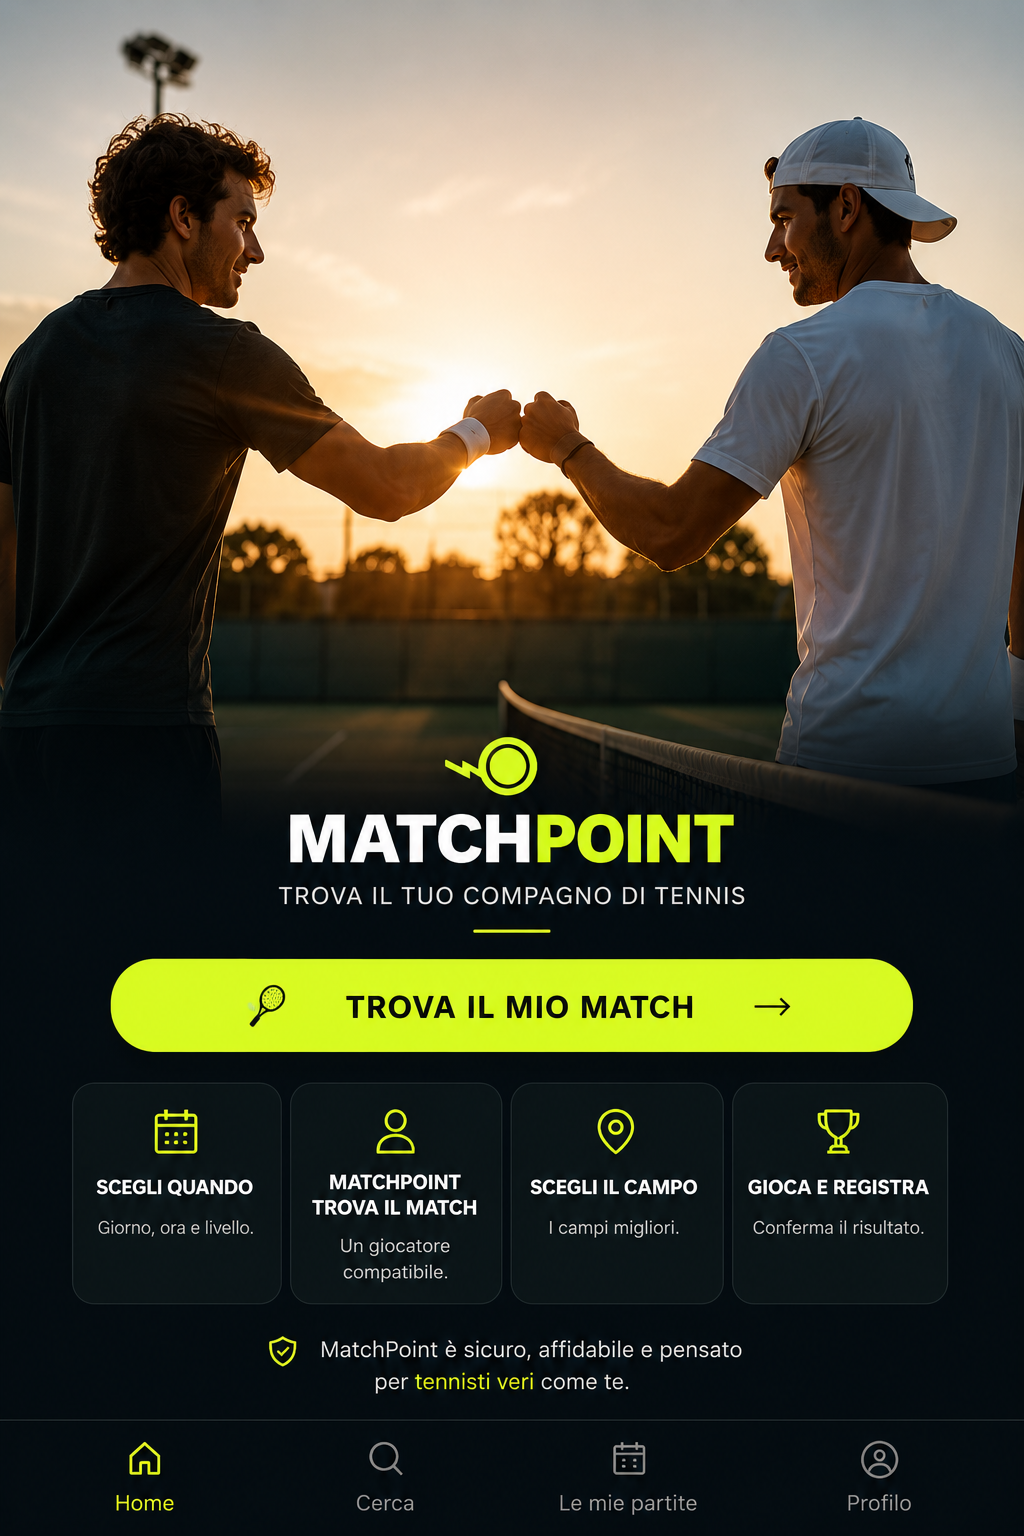
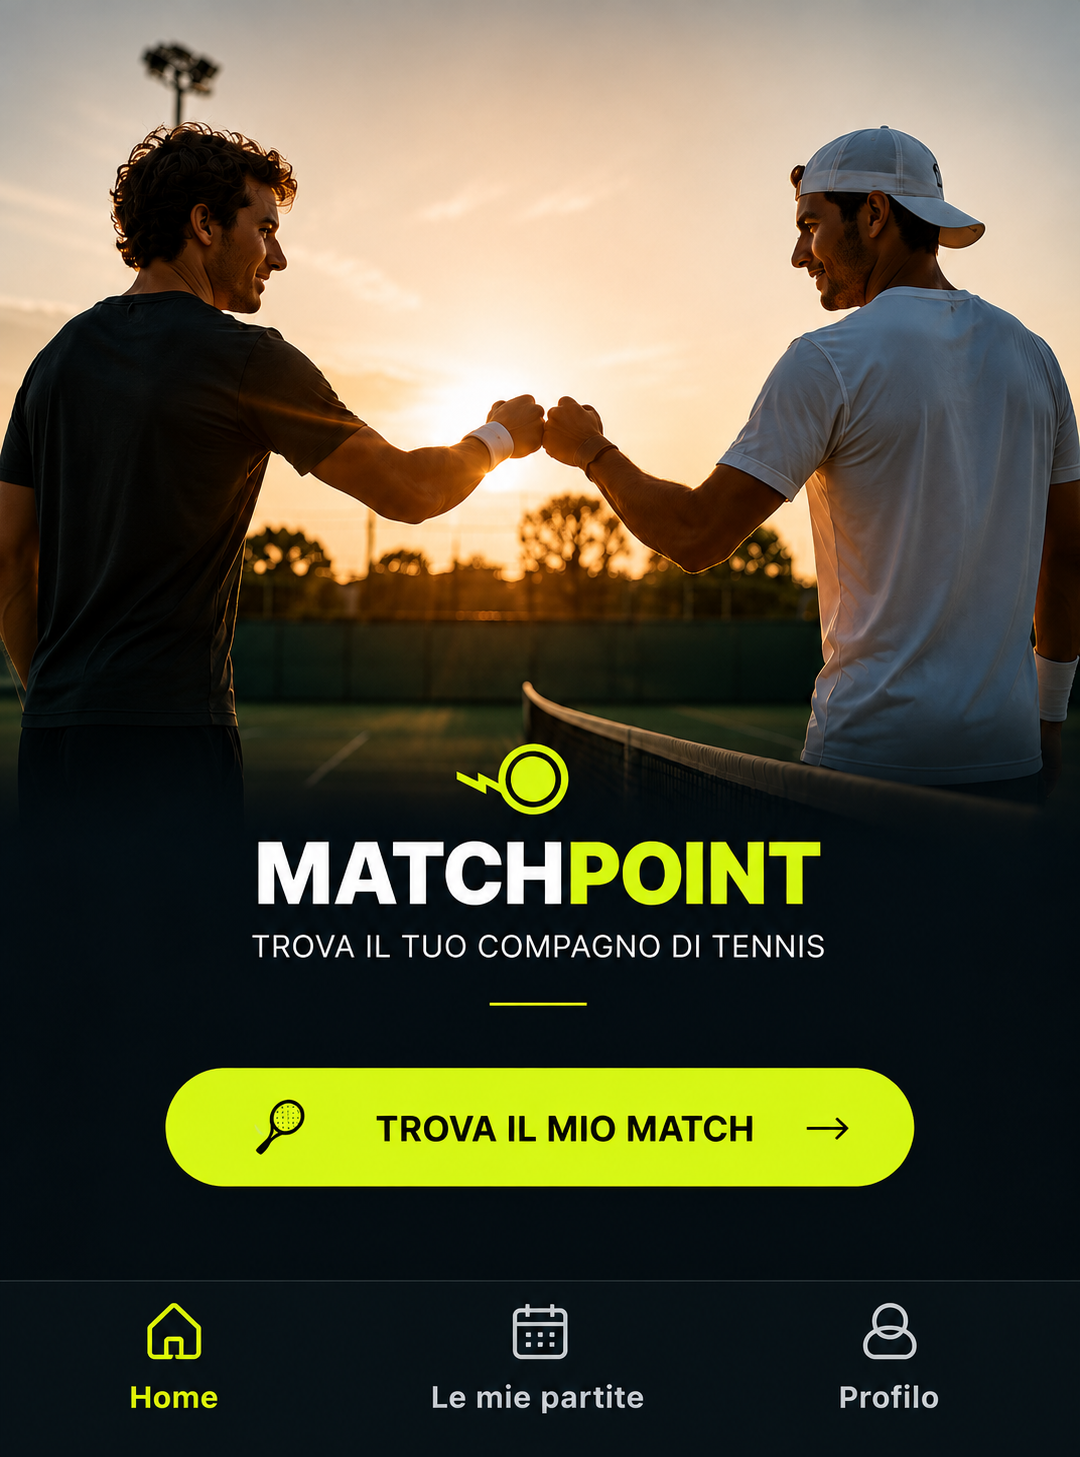
MatchPoint – nuova home definitiva

diff --git a/index.html b/index.html
@@ -1,268 +1,131 @@
-<!doctype html>
+<!DOCTYPE html>
 <html lang="it">
 <head>
-<meta charset="utf-8">
-<meta name="viewport" content="width=device-width,initial-scale=1,viewport-fit=cover">
-<meta name="theme-color" content="#061114">
-<title>MatchPoint</title>
+<meta charset="UTF-8">
+<meta name="viewport" content="width=device-width, initial-scale=1.0, viewport-fit=cover">
+<meta name="theme-color" content="#020b0d">
+<title>MatchPoint – Trova il tuo compagno di tennis</title>
 <style>
-*{box-sizing:border-box}
-html,body{margin:0;width:100%;height:100%;overflow:hidden;background:#061114}
-body{font-family:-apple-system,BlinkMacSystemFont,"Segoe UI",sans-serif}
-.app{width:100%;height:100dvh;max-width:520px;margin:auto;position:relative;overflow:hidden;background:#061114}
-.home{position:absolute;inset:0}
-.home img{width:100%;height:100%;display:block;object-fit:contain;object-position:center}
-.tap{position:absolute;border:0;background:transparent;padding:0;margin:0;z-index:10;cursor:pointer}
-.cta{left:9%;top:59%;width:82%;height:7.5%}
-.nav-home{left:0;bottom:0;width:25%;height:8%}
-.nav-history{left:50%;bottom:0;width:25%;height:8%}
-.nav-profile{left:75%;bottom:0;width:25%;height:8%}
-.screen{display:none;position:absolute;inset:0;overflow:auto;padding:28px 20px 92px;background:#061114;color:#fff}
-.screen.active{display:block}
-h2{font-size:28px;margin:4px 0 24px}
-label{font-weight:800;font-size:14px;display:block;margin-top:14px}
-input,select{width:100%;padding:15px;margin:8px 0 17px;border-radius:13px;border:1px solid #344143;background:#101b1d;color:#fff;font-size:16px}
-.action{width:100%;border:0;border-radius:15px;padding:16px;font-weight:900;background:#d9ff19;color:#101414;font-size:16px;margin-top:12px}
-.card{background:#101b1d;border:1px solid #273638;border-radius:18px;padding:18px;margin:14px 0}
-.muted{color:#b9c1c2;line-height:1.45}
-.back{background:#192628;color:#fff}
-.club{margin:12px 0}
-.set{border:1px solid #2b3739;border-radius:15px;padding:14px;margin:12px 0;background:#101b1d}
-.settitle{font-weight:900;margin-bottom:10px;color:#d9ff19}
-.scoreRow{display:grid;grid-template-columns:1fr 80px;gap:10px;align-items:center;margin:8px 0;color:#fff}
-.scoreRow input{margin:0;text-align:center}
-.score{text-align:center;font-size:21px;font-weight:900;margin:18px 0}
+  * { box-sizing: border-box; }
 
-.feature-card{min-height:110px;padding:10px 5px}
-  .feature-card strong{font-size:10px}
-  .feature-card>span:last-child{font-size:9px}
-}
+  html, body {
+    margin: 0;
+    padding: 0;
+    width: 100%;
+    min-height: 100%;
+    background: #020b0d;
+    font-family: Arial, Helvetica, sans-serif;
+  }
 
+  body {
+    display: flex;
+    justify-content: center;
+    overflow-x: hidden;
+  }
 
-.feature-hit{
-  position:absolute;z-index:20;display:block;border:0;padding:0;margin:0;
-  background:transparent;appearance:none;-webkit-appearance:none;
-  cursor:pointer;touch-action:manipulation;-webkit-tap-highlight-color:transparent;
-}
-.feature-when{left:6.5%;top:64%;width:21.8%;height:18%}
-.feature-match{left:28.7%;top:64%;width:21.8%;height:18%}
-.feature-club{left:50.9%;top:64%;width:21.8%;height:18%}
-.feature-score{left:73.1%;top:64%;width:21.8%;height:18%}
+  .app {
+    position: relative;
+    width: 100%;
+    max-width: 520px;
+    min-height: 100vh;
+    background: #020b0d;
+    overflow: hidden;
+  }
 
+  .hero {
+    position: relative;
+    width: 100%;
+    line-height: 0;
+  }
 
-.nav-cover{
-  position:absolute;z-index:25;left:0;right:0;bottom:0;height:9.8%;
-  background:#061114;border-top:1px solid rgba(255,255,255,.12);
-}
-.bottom-nav{
-  position:absolute;z-index:30;left:0;right:0;bottom:0;height:9.8%;
-  display:grid;grid-template-columns:repeat(3,1fr);align-items:center;
-}
-.bottom-item{
-  height:100%;border:0;background:transparent;color:#bfc7c8;
-  display:flex;flex-direction:column;align-items:center;justify-content:center;
-  gap:6px;font:600 12px -apple-system,BlinkMacSystemFont,"Segoe UI",sans-serif;
-  padding:4px 2px;cursor:pointer;touch-action:manipulation;
-  -webkit-tap-highlight-color:transparent;
-}
-.bottom-item.nav-home{color:#d9ff19}
-.nav-icon{position:relative;width:27px;height:27px;display:block}
-.home-icon:before{
-  content:"";position:absolute;left:4px;top:9px;width:19px;height:14px;
-  border:2px solid currentColor;border-top:0;border-radius:2px;
-}
-.home-icon:after{
-  content:"";position:absolute;left:4px;top:3px;width:15px;height:15px;
-  border-left:2px solid currentColor;border-top:2px solid currentColor;
-  transform:rotate(45deg);
-}
-.calendar-icon:before{
-  content:"";position:absolute;left:3px;top:5px;width:21px;height:19px;
-  border:2px solid currentColor;border-radius:4px;
-}
-.calendar-icon:after{
-  content:"";position:absolute;left:7px;top:11px;width:13px;height:2px;
-  background:currentColor;box-shadow:0 5px 0 currentColor;
-}
-.profile-icon:before{
-  content:"";position:absolute;left:7px;top:2px;width:11px;height:11px;
-  border:2px solid currentColor;border-radius:50%;
-}
-.profile-icon:after{
-  content:"";position:absolute;left:3px;bottom:2px;width:19px;height:10px;
-  border:2px solid currentColor;border-radius:12px 12px 7px 7px;
-}
-@media (max-width:390px){
-  .bottom-item{font-size:11px}
-}
+  .hero img {
+    display: block;
+    width: 100%;
+    height: auto;
+    user-select: none;
+    -webkit-user-drag: none;
+  }
 
+  /* The generated image already contains the complete visual.
+     These transparent hit areas make the visible controls clickable. */
+  .hit {
+    position: absolute;
+    display: block;
+    z-index: 5;
+    background: transparent;
+    border: 0;
+    cursor: pointer;
+    -webkit-tap-highlight-color: transparent;
+  }
+
+  .match-hit {
+    left: 9%;
+    width: 82%;
+    top: 67.5%;
+    height: 8.5%;
+    border-radius: 60px;
+  }
+
+  .home-hit {
+    left: 5%;
+    width: 27%;
+    bottom: 1%;
+    height: 10%;
+  }
+
+  .partite-hit {
+    left: 36%;
+    width: 28%;
+    bottom: 1%;
+    height: 10%;
+  }
+
+  .profilo-hit {
+    right: 5%;
+    width: 27%;
+    bottom: 1%;
+    height: 10%;
+  }
+
+  /* Prevent accidental selection while tapping the UI. */
+  button, a { outline: none; }
 </style>
 </head>
 <body>
-<div class="app">
+<main class="app" aria-label="MatchPoint">
+  <section class="hero">
+    <img src="matchpoint-home.png"
+         alt="MatchPoint – Trova il tuo compagno di tennis">
 
-<section id="home" class="home">
-  <img src="matchpoint-home.png" alt="MatchPoint">
-  <button id="mainCta" class="tap cta" aria-label="Trova il mio match"></button>
-  <div class="nav-cover" aria-hidden="true"></div>
-  <nav class="bottom-nav" aria-label="Navigazione principale">
-    <button class="bottom-item nav-home" aria-label="Home">
-      <span class="nav-icon home-icon"></span><span>Home</span>
-    </button>
-    <button class="bottom-item nav-history" aria-label="Le mie partite">
-      <span class="nav-icon calendar-icon"></span><span>Le mie partite</span>
-    </button>
-    <button class="bottom-item nav-profile" aria-label="Profilo">
-      <span class="nav-icon profile-icon"></span><span>Profilo</span>
-    </button>
-  </nav>
+    <button class="hit match-hit"
+            aria-label="Trova il mio match"
+            onclick="vaiA('match')"></button>
 
-  <button class="feature-hit feature-when" data-feature="create" aria-label="Scegli quando"></button>
-  <button class="feature-hit feature-match" data-feature="create" aria-label="Trova il match"></button>
-  <button class="feature-hit feature-club" data-feature="clubs" aria-label="Scegli il campo"></button>
-  <button class="feature-hit feature-score" data-feature="score" aria-label="Gioca e registra"></button>
+    <button class="hit home-hit"
+            aria-label="Home"
+            onclick="vaiA('home')"></button>
 
-</section>
+    <button class="hit partite-hit"
+            aria-label="Le mie partite"
+            onclick="vaiA('partite')"></button>
 
-<section id="create" class="screen">
-<h2>Crea il tuo Match</h2>
-<label>Quando vuoi giocare?</label><input id="date" type="date">
-<label>Orario</label><input type="time" value="18:00">
-<label>📍 Zona</label><input id="place" placeholder="Es. Pieve di Soligo" autocomplete="off"><div id="suggestions"></div>
-<label>Livello</label><select><option>Principiante</option><option selected>Intermedio</option><option>Avanzato</option></select>
-<button class="action" id="searchBtn">CERCA IL MIO MATCH</button>
-<button class="action back" data-go="home">INDIETRO</button>
-</section>
-
-<section id="search" class="screen"><h2>🔎 Cerchiamo il tuo Match...</h2><p class="muted">Orario · zona · distanza · livello</p></section>
-
-<section id="found" class="screen">
-<h2>🎉 Match trovato!</h2>
-<p class="muted">Abbiamo trovato un giocatore compatibile con la tua richiesta.</p>
-<div class="card">
-  <b style="font-size:21px">Sandro ↔ Luca</b>
-  <p>🎾 Livello: <b>Intermedio</b></p>
-  <p>📍 Distanza: <b>6 km</b></p>
-  <p>📅 Domani · 🕕 18:00</p>
-  <div class="status"><b style="color:#d9ff19">92% compatibile</b><br><span class="muted">Stessa zona, stesso livello e stesso orario.</span></div>
-</div>
-<button class="action" data-go="clubs">SCEGLI IL CAMPO</button>
-</section>
-
-<section id="clubs" class="screen">
-<h2>📍 Dove giochiamo?</h2><p class="muted">MatchPoint propone 3 campi comodi per entrambi i giocatori. Scegline uno.</p>
-<div class="card club"><b>Tennis Club Pieve di Soligo</b><p class="muted">Campo consigliato · comodo per entrambi</p><button class="action clubBtn" data-club="Tennis Club Pieve di Soligo">PROPONI QUESTO CAMPO</button></div>
-<div class="card club"><b>Tennis Club Vittorio Veneto</b><p class="muted">Comodo per entrambi</p><button class="action clubBtn" data-club="Tennis Club Vittorio Veneto">PROPONI QUESTO CAMPO</button></div>
-<div class="card club"><b>Tennis Club Conegliano</b><p class="muted">Comodo per entrambi</p><button class="action clubBtn" data-club="Tennis Club Conegliano">PROPONI QUESTO CAMPO</button></div>
-</section>
-
-<section id="choice" class="screen">
-<h2>Campo proposto</h2><div class="card"><b id="chosenClub"></b><p class="muted">Hai proposto questo campo a Luca.</p><div class="card">👤 Luca ha accettato il campo.</div></div>
-<button class="action" data-go="booking">CONTINUA</button>
-</section>
-
-<section id="booking" class="screen">
-<h2>Chi prenota?</h2><div class="card"><b id="bookingClub"></b><p>Domani · 18:00</p></div>
-<button class="action" id="sandroBook">SANDRO PRENOTA</button>
-<button class="action back" id="lucaBook">LASCIA PRENOTARE LUCA</button>
-</section>
-
-<section id="waiting" class="screen">
-<h2>📞 Prenotazione in corso</h2><div class="card"><p id="wait" class="muted"></p></div>
-<button class="action" id="confirmBook">CONFERMA PRENOTAZIONE EFFETTUATA</button>
-</section>
-
-<section id="confirmed" class="screen">
-<h2>✅ Partita confermata</h2><div class="card"><b>Sandro vs Luca</b><p id="confirmedClub"></p><p>📅 Domani · 18:00</p><p>🟢 Campo prenotato</p></div>
-<button class="action" data-go="score">INSERISCI RISULTATO</button>
-</section>
-
-<section id="score" class="screen">
-<h2>Inserisci il risultato</h2><p class="muted">Compila solo i set effettivamente giocati.</p><div id="sets"></div>
-<button class="action" id="sendScore">INVIA PER CONFERMA</button>
-</section>
-
-<section id="result" class="screen">
-<h2>Risultato inviato</h2><div class="card"><div id="resultText" class="score"></div><p class="muted">Luca deve confermare il risultato.</p></div>
-<button class="action" data-go="history">SIMULA CONFERMA DI LUCA</button>
-</section>
-
-<section id="history" class="screen">
-<h2>Le mie partite</h2><div class="card"><b>🎾 Sandro vs Luca</b><div id="historyText" class="score"></div><p>✅ Risultato confermato</p></div>
-<button class="action" data-go="home">TORNA ALLA HOME</button>
-</section>
-
-
-<section id="profile" class="screen">
-<h2>Il mio profilo</h2>
-<div class="card">
-  <h3 style="margin:0 0 8px;font-size:21px">🎾 Sandro</h3>
-  <p class="muted">Il tuo profilo MatchPoint</p>
-</div>
-<div class="card">
-  <b>Livello</b>
-  <p class="muted">Intermedio</p>
-</div>
-<div class="card">
-  <b>Zona di gioco</b>
-  <p class="muted">Pieve di Soligo e dintorni</p>
-</div>
-<div class="card">
-  <b>Preferenze</b>
-  <p class="muted">Distanza massima · 10 km</p>
-</div>
-<button class="action" data-go="home">TORNA ALLA HOME</button>
-</section>
+    <button class="hit profilo-hit"
+            aria-label="Profilo"
+            onclick="vaiA('profilo')"></button>
+  </section>
+</main>
 
 <script>
-document.addEventListener('DOMContentLoaded',function(){
-  let chosen='';
-  function go(id){
-    document.querySelectorAll('.home,.screen').forEach(function(x){x.style.display='none'});
-    const el=document.getElementById(id);
-    if(el){el.style.display='block';el.scrollTop=0}
-    window.scrollTo(0,0);
-  }
-  document.getElementById('mainCta').addEventListener('click',function(e){e.preventDefault();go('create')});
-  document.getElementById('mainCta').addEventListener('touchend',function(e){e.preventDefault();go('create')},{passive:false});
-  document.querySelectorAll('[data-go]').forEach(function(b){b.addEventListener('click',function(){go(b.dataset.go)})});
-  document.querySelector('.nav-home').addEventListener('click',function(){go('home')});
-  document.querySelector('.nav-history').addEventListener('click',function(){go('history')});
-  document.querySelectorAll('.feature-hit').forEach(function(btn){
-    function activate(e){
-      if(e){e.preventDefault();e.stopPropagation();}
-      go(btn.getAttribute('data-feature'));
+  function vaiA(sezione) {
+    // Collega qui le sezioni già presenti nel tuo MatchPoint.
+    // Per ora usiamo hash così puoi verificare subito i click.
+    if (sezione === 'home') {
+      window.location.hash = '';
+      window.scrollTo({top: 0, behavior: 'smooth'});
+    } else {
+      window.location.hash = sezione;
     }
-    btn.addEventListener('click', activate);
-    btn.addEventListener('touchend', activate, {passive:false});
-  });
-
-
-
-
-
-  document.querySelector('.nav-profile').addEventListener('click',function(){go('profile')});
-  document.getElementById('searchBtn').addEventListener('click',function(){go('search');setTimeout(function(){go('found')},700)});
-  document.querySelectorAll('.clubBtn').forEach(function(b){b.addEventListener('click',function(){
-    chosen=b.dataset.club;document.getElementById('chosenClub').textContent=chosen;document.getElementById('bookingClub').textContent=chosen;go('choice');
-  })});
-  function book(who){document.getElementById('wait').textContent=who+' ha preso in carico la prenotazione. Dopo aver prenotato, conferma qui.';go('waiting')}
-  document.getElementById('sandroBook').addEventListener('click',function(){book('Sandro')});
-  document.getElementById('lucaBook').addEventListener('click',function(){book('Luca')});
-  document.getElementById('confirmBook').addEventListener('click',function(){document.getElementById('confirmedClub').textContent='📍 '+chosen;go('confirmed')});
-  const sets=document.getElementById('sets');
-  for(let i=1;i<=5;i++){const s=document.createElement('div');s.className='set';s.innerHTML='<div class="settitle">Set '+i+'</div><div class="scoreRow"><span>Sandro</span><input class="a" type="number" min="0" max="20" placeholder="-"></div><div class="scoreRow"><span>Luca</span><input class="b" type="number" min="0" max="20" placeholder="-"></div>';sets.appendChild(s)}
-  document.getElementById('sendScore').addEventListener('click',function(){
-    const r=[];document.querySelectorAll('.set').forEach(function(s,i){let a=s.querySelector('.a').value,b=s.querySelector('.b').value;if(a!==''||b!=='')r.push('Set '+(i+1)+': '+(a||0)+'-'+(b||0))});
-    if(!r.length){alert('Inserisci almeno un set.');return} const t=r.join(' · ');document.getElementById('resultText').textContent=t;document.getElementById('historyText').textContent=t;go('result');
-  });
-  const d=new Date();d.setDate(d.getDate()+1);document.getElementById('date').value=d.toISOString().slice(0,10);
-  const places=['Pieve di Soligo, TV','Vittorio Veneto, TV','Conegliano, TV','Farra di Soligo, TV'];
-  const p=document.getElementById('place'),s=document.getElementById('suggestions');
-  p.addEventListener('input',function(){const q=p.value.toLowerCase().trim();s.innerHTML='';if(!q)return;places.filter(function(x){return x.toLowerCase().includes(q)}).forEach(function(x){const d=document.createElement('div');d.className='card';d.textContent='📍 '+x;d.onclick=function(){p.value=x;s.innerHTML=''};s.appendChild(d)})});
-  document.getElementById('home').style.display='block';
-});
+  }
 </script>
-</div>
 </body>
 </html>
